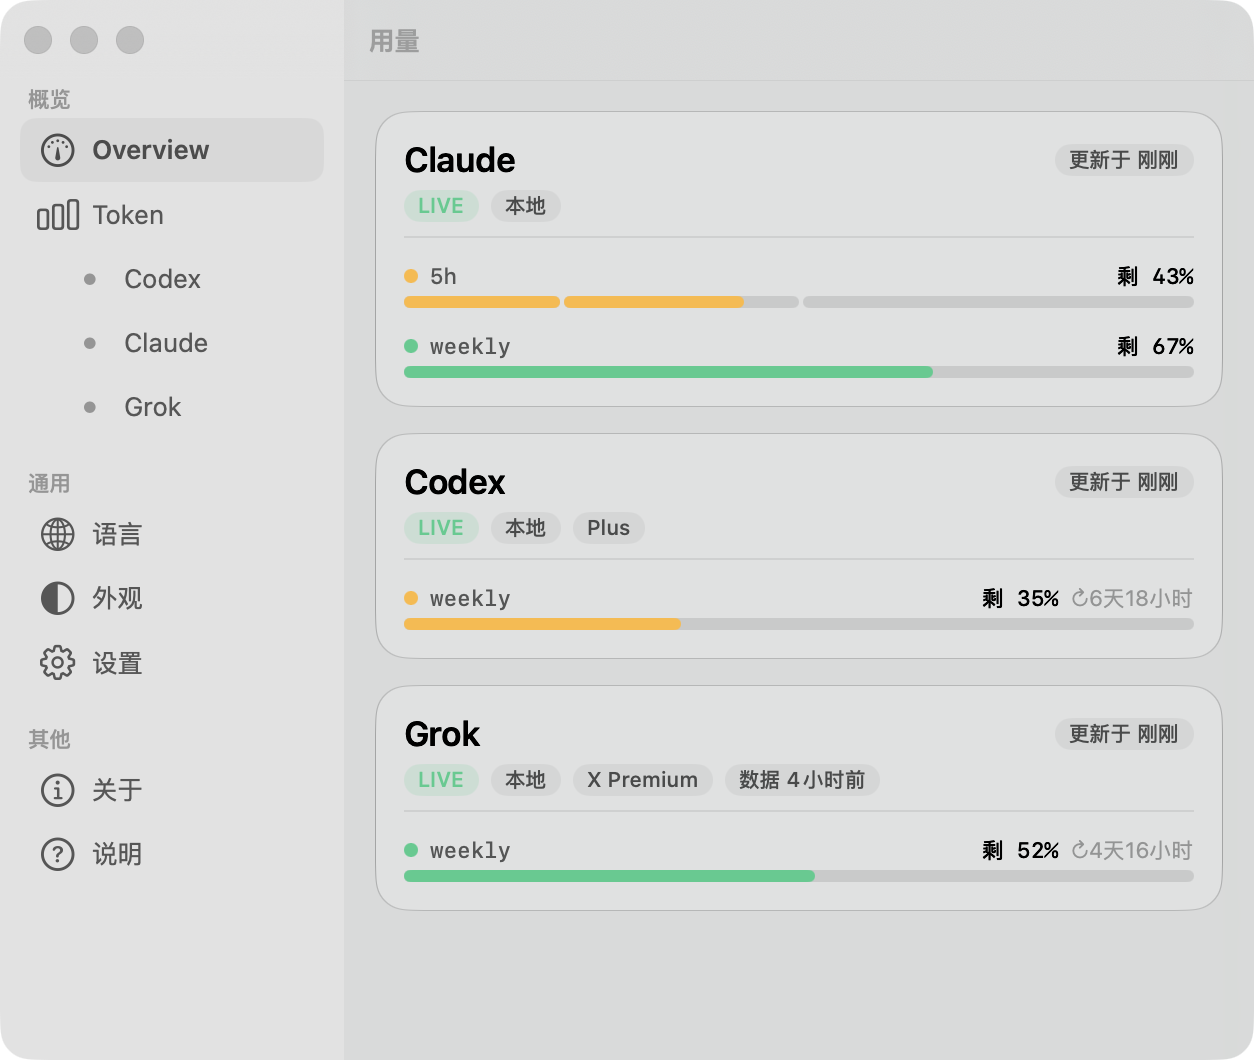
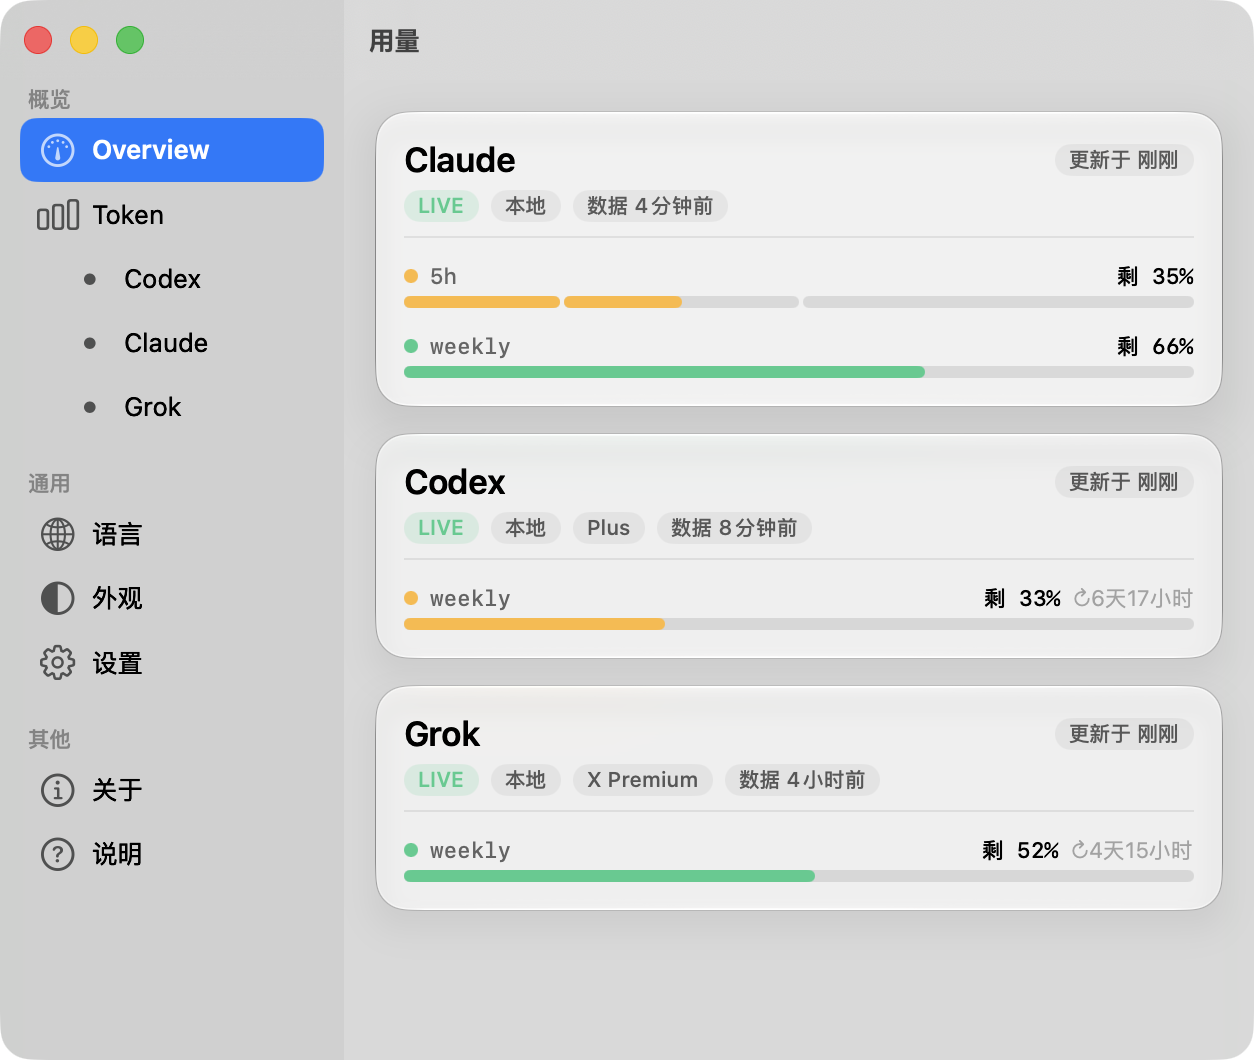
修正边栏分层方向：系统是「暗边栏 + 亮内容」，之前做反了
对比实测（浅色，空白处取样）：系统设置 边栏 241 / 内容 247（边栏暗 6 级）；
我们上一版是 边栏 226 / 内容 217（边栏亮 9 级）——方向相反。

根因：系统的 .sidebar / .underWindowBackground / .windowBackground 在浅色下都把边栏做得
更亮（226/217、224/210、255/216），因为我们的内容区是 .popover 玻璃（216），本身就比普通
窗口底色暗得多。而那层是动态玻璃地基，不能为了配色去动。所以改为：边栏用同一种 .popover
玻璃 + Color.black.opacity(0.04) 压暗。

实测 浅色 208/217（−9）、深色 95/99（−4），与系统 −6 同量级，两种外观方向一致。
0.11 试过，浅色差 18 级过重。图标仍一字未动。docs/SCR-usage.png 按新观感重拍。

diff --git a/Sources/Tokenitor/DashboardView.swift b/Sources/Tokenitor/DashboardView.swift
@@ -34,15 +34,23 @@ struct DashboardView: View {
         }
     }
 
-    /// 边栏用系统 `.sidebar` 材质，与详情区的 `.popover` 拉开一层明度差——之前两侧都只有窗口
-    /// 那一层 behindWindow 玻璃，实测浅色下 218 vs 217，等于看不出边栏边界。
-    /// 用系统材质而不是自己叠色：明暗两套的方向由系统给（实测浅色边栏偏亮 226/217、深色偏暗
-    /// 71/98），自己叠固定色只能对一套。曾试 `Color.black.opacity(0.055)`，材质会把它抹掉，
-    /// 只剩 3 级差、白改。
-    /// 只加在边栏这一侧：详情区的 `VisualEffectView(.popover, .behindWindow)` 是动态玻璃的
-    /// 内容层，一个字都不要动（见 CLAUDE.md §2）。
+    /// 边栏用**和详情区同一种** `.popover` 玻璃，再压一层极淡的黑做暗——「暗边栏 + 亮内容」
+    /// 才是系统的方向（实测系统设置浅色：边栏 241 / 内容 247，边栏暗 6 级）。
+    /// 此前两侧都只有窗口那一层玻璃，浅色实测 218 vs 217，等于看不出边栏边界。
+    ///
+    /// 为什么不用系统的 `.sidebar` / `.underWindowBackground` / `.windowBackground`：这三个在
+    /// 浅色下都把边栏做得**更亮**（实测 226/217、224/210、255/216），方向和系统相反——根因是
+    /// 我们的内容区是 `.popover` 玻璃（216），比普通窗口底色暗得多，而那层是动态玻璃的地基，
+    /// 不能为了配色去动它（见 CLAUDE.md §2）。所以只能反过来压暗边栏。
+    ///
+    /// 0.04 这个值是量出来的：0.11 → 浅色差 18 级（过重），0.04 → 浅色 −9 / 深色 −4，
+    /// 与系统的 −6 同量级且两种外观方向一致。改这个数字必须重新量，不要凭感觉调。
     private var sidebarTint: some View {
-        VisualEffectView(material: .sidebar, blending: .behindWindow).ignoresSafeArea()
+        ZStack {
+            VisualEffectView(material: .popover, blending: .behindWindow)
+            Color.black.opacity(0.04)
+        }
+        .ignoresSafeArea()
     }
 
     /// 边栏选中项：普通页面，或 Token 下的某个工具子项。
